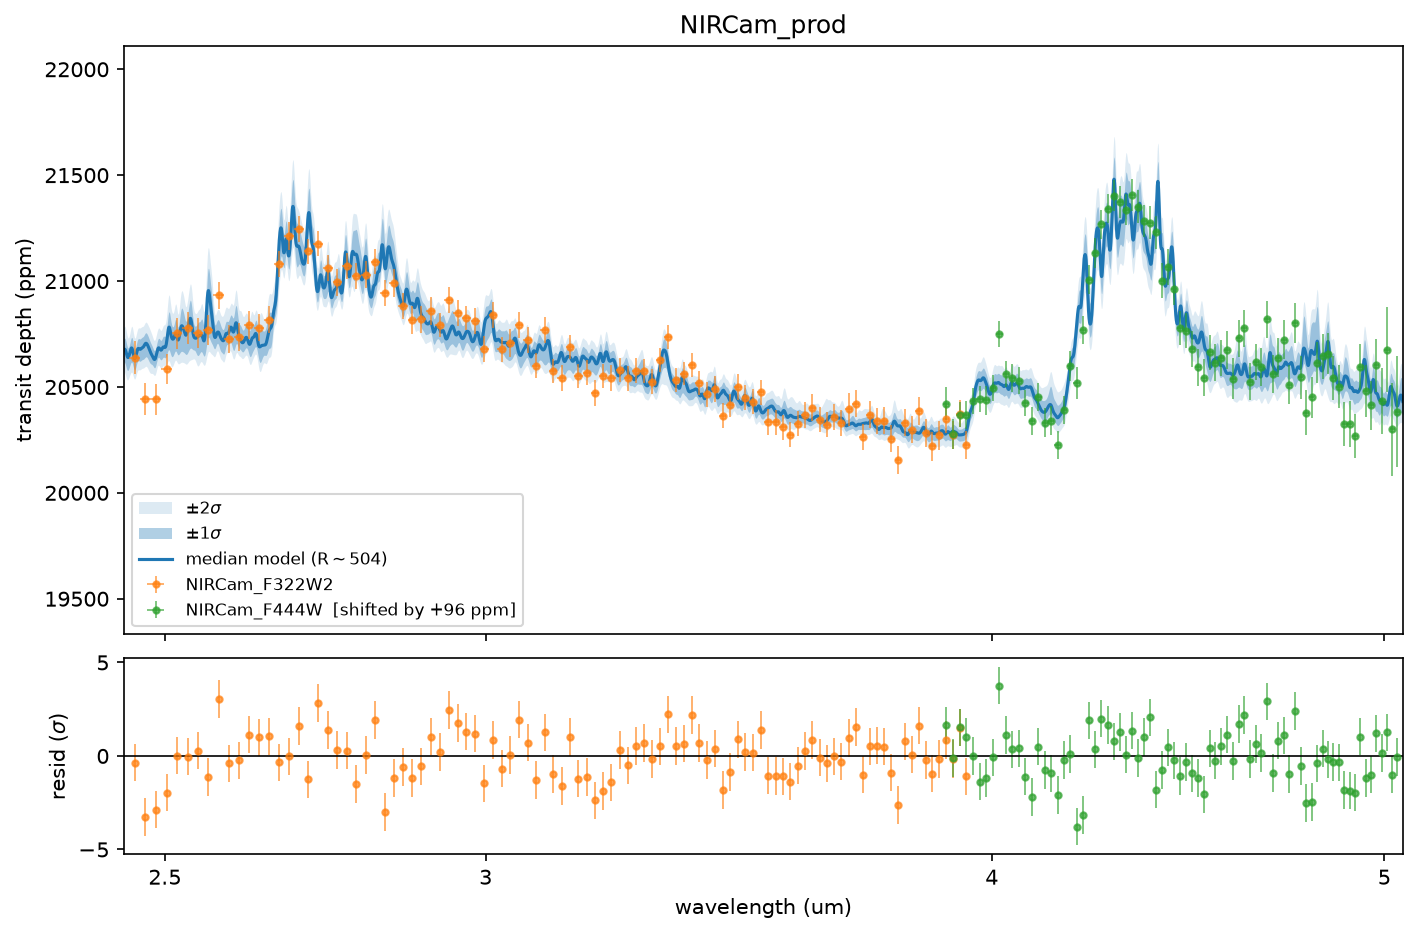
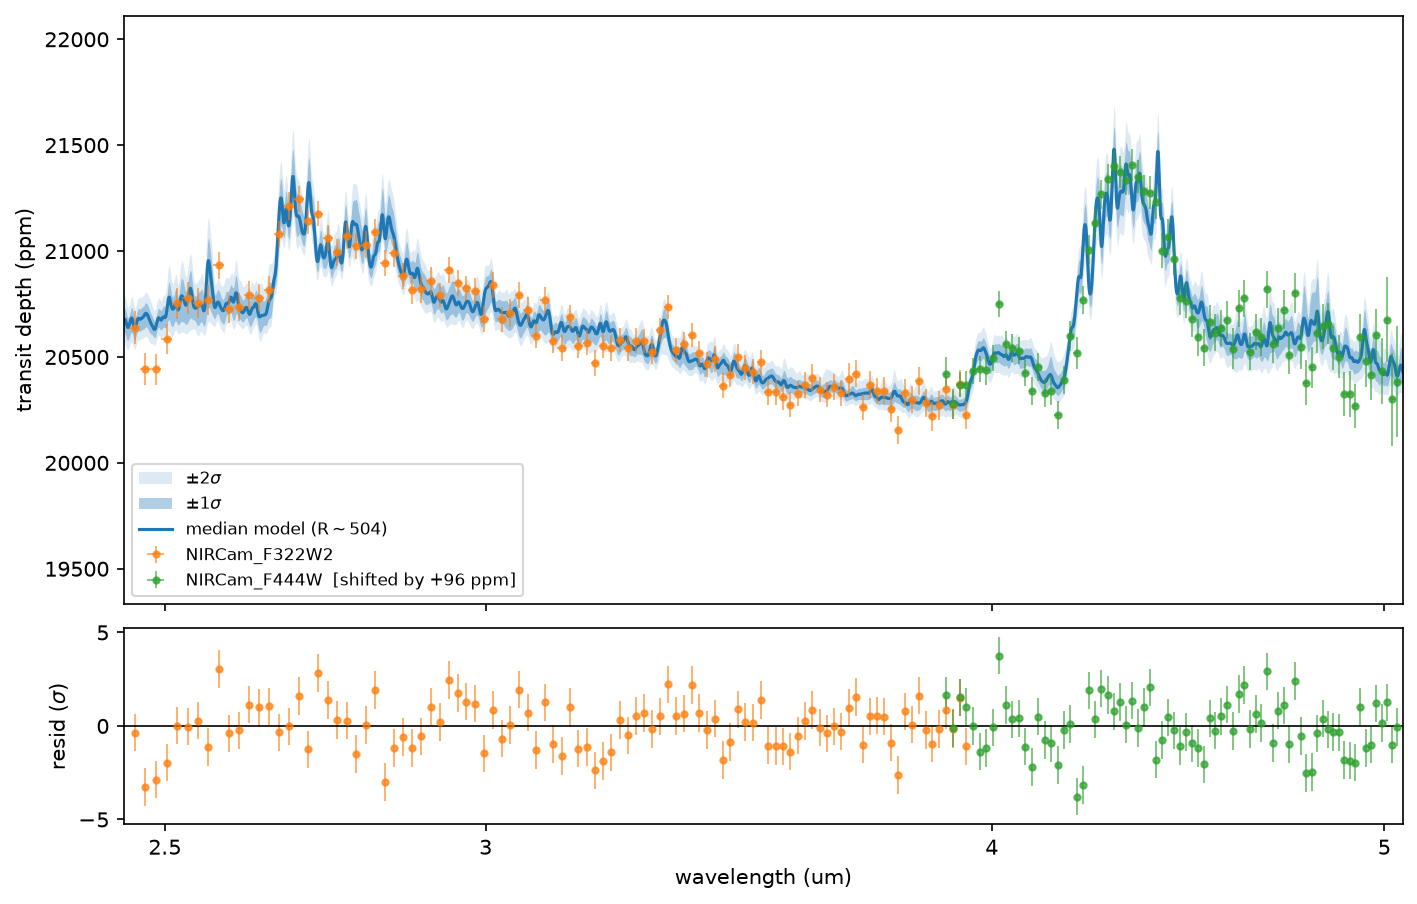
WASP-107b: tidy figure text, cite Welbanks for MIRI, explain NIRCam offset

diff --git a/_projects/3_wasp107b.md b/_projects/3_wasp107b.md
@@ -14,7 +14,8 @@ figures:
   caption: Free retrieval of the NIRCam transmission spectrum. Both grism filters
     are fitted simultaneously with a free inter-filter offset; the blue curve is the
     median model with 1σ and 2σ credible intervals, and the lower panel shows residuals
-    in units of σ.
+    in units of σ. The +96 ppm shift of F444W is the retrieved offset, not a correction
+    applied by hand.
   after_point: 2
 - image: /assets/img/projects/wasp107b-miri-vs-published.png
   caption: MIRI/LRS re-reduction of WASP-107b compared with the published spectrum
@@ -40,7 +41,7 @@ spanning 0.6–12 µm and uses **free retrievals**.
   giving transmission spectra in both spectral orders.
 - **NIRCam grism:** transmission spectra using Eureka! in the F322W2 and F444W filters.
 - **MIRI LRS:** a complete **Eureka!** reduction (Stages 1–6), benchmarked
-  against the published MIRI spectrum of Dyrek et al. (2024).
+  against the published MIRI spectrum of Welbanks et al. (2024).
 - **NIRSpec G395H:** full Eureka! reduction for both detectors, giving
   transmission spectra across 2.8–5.2 µm.
 - **Retrievals:** Bayesian free retrievals with **POSEIDON** and **MultiNest**
